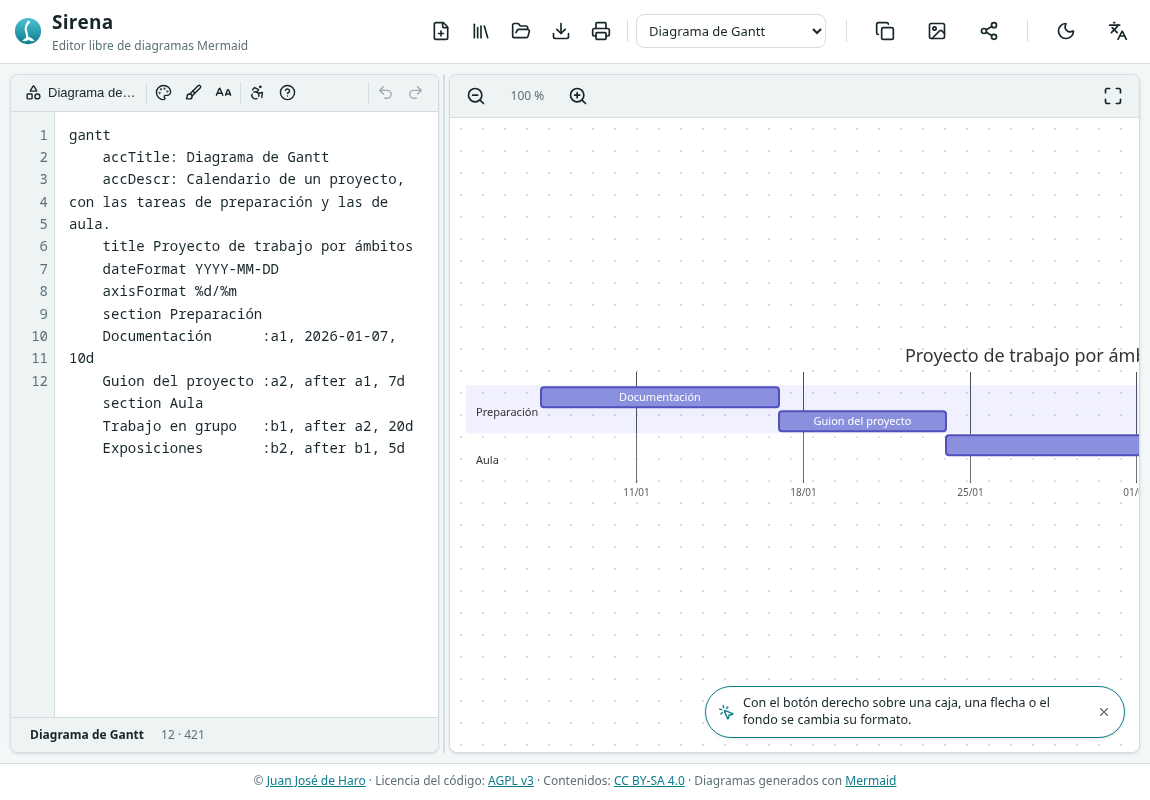
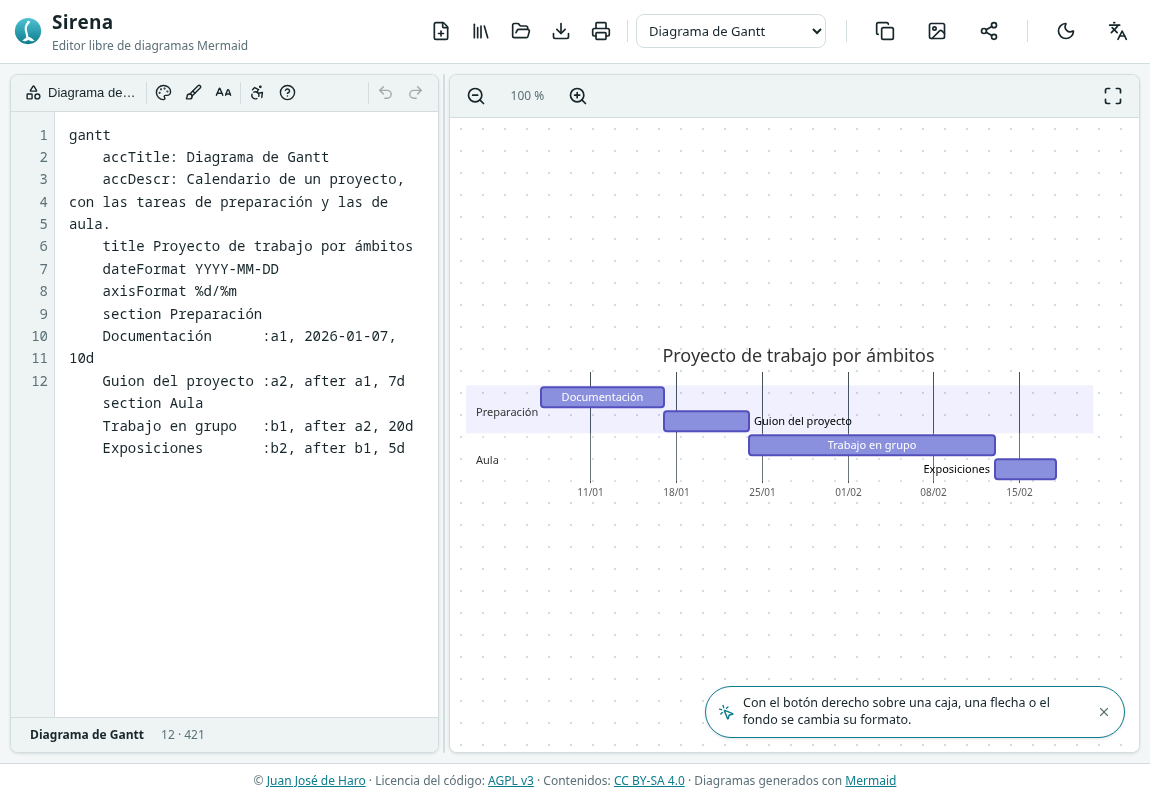
Draw width-dependent diagrams to the preview pane's width

Changed region(s): [[0.487, 0.4375, 1.0, 0.625], [0.5783, 0.5938, 0.6087, 0.625]]

diff --git a/js/sirena.js b/js/sirena.js
@@ -932,7 +932,16 @@ function opaqueEdgeLabels(svg, id) {
   return svg.replace('</style>', extra + '</style>');
 }
 
+// El elemento donde Mermaid mide toma el ancho del panel del diagrama, para
+// que lo que se dibuje a ese ancho quepa tal cual.
+function anchoDeMedida() {
+  const port = el.viewport.getBoundingClientRect();
+  const ancho = Math.round(port.width - 24);
+  document.documentElement.style.setProperty('--ancho-medida', (ancho > 200 ? ancho : 800) + 'px');
+}
+
 async function renderOnce() {
+  anchoDeMedida();
   const code = el.editor.value.trim();
   codigoPrevio = el.editor.value;
   localStorage.setItem(STORE.code, el.editor.value);

diff --git a/css/sirena.css b/css/sirena.css
@@ -486,9 +486,9 @@ body > div[id^="dsirena-diagram-"] {
   position: absolute !important;
   left: -10000px;
   top: 0;
-  /* Con el ancho de la ventana, como si siguiera en el flujo: algunos
-     diagramas (el de Gantt) se dibujan según el ancho disponible. */
-  width: 100vw;
+  /* Con el ancho del panel donde se va a ver: algunos diagramas (el de
+     Gantt) se dibujan según el ancho disponible, y así salen a su medida. */
+  width: var(--ancho-medida, 100vw);
   pointer-events: none;
 }
 

diff --git a/docs/adr/0009-ajuste-de-la-vista.md b/docs/adr/0009-ajuste-de-la-vista.md
@@ -49,6 +49,14 @@ Lo que sí reparte bien el diagrama es la dirección: el mismo código en
 horizontal pasa de 476 × 1949 a 2838 × 334, conservando el orden de lectura. Por
 eso la página propone ese cambio en lugar de tocar el motor de trazado.
 
+Hay tipos, como el diagrama de Gantt, que Mermaid dibuja al ancho del sitio
+donde los mide, no a su contenido. Para que salgan a la medida del panel donde
+se van a ver, el elemento de medida toma ese ancho (`--ancho-medida`) antes de
+cada dibujo. El 22-09-2026 ese elemento se sacó del flujo de la página, porque
+la empujaba mientras Mermaid medía, y al perder su ancho el Gantt salió
+comprimido a 300 píxeles y luego ampliado por el ajuste; de ahí que ahora se le
+dé el ancho de forma explícita.
+
 ## Consecuencias
 
 Un diagrama largo ya no se ve entero de un vistazo al abrirlo. El botón del
